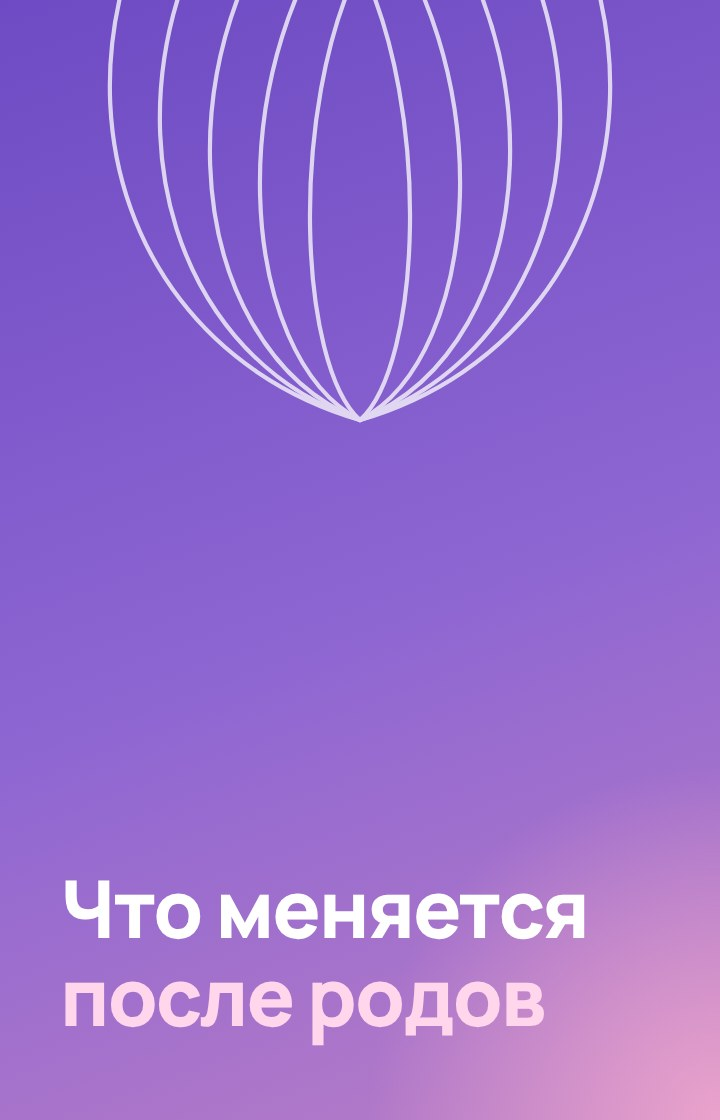
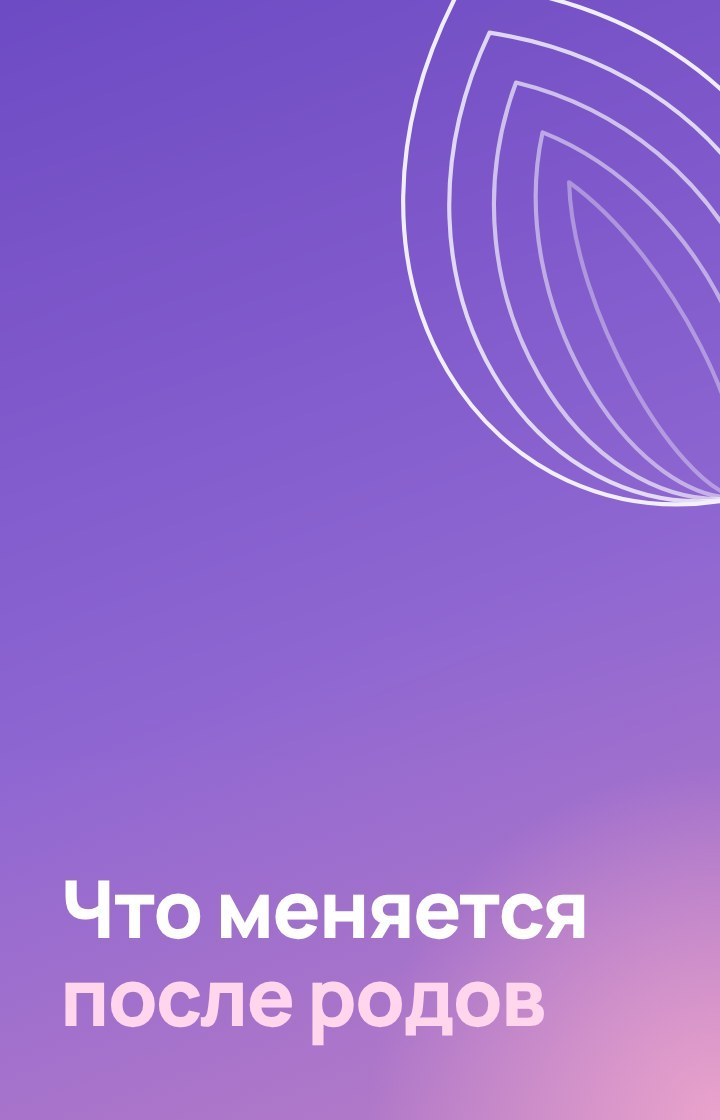
Тонус, видеоуроки: на обложке «Что меняется после родов» лепесток сдвинут вправо вверх и наклонён (не по центру над play); карточки «скоро» и все обложки с тонкой рамкой – видна полная высота
Claude-Session: https://claude.ai/code/session_01BQF8mmCayB7r6gCvi3am4g

diff --git a/app/index.html b/app/index.html
@@ -557,7 +557,7 @@ nav{align-items:center}nav a{display:inline-flex;align-items:center;justify-cont
 .vc b{position:relative;font-size:10.5px;font-weight:700;line-height:1.25;padding:20px 8px 8px;width:100%;background:linear-gradient(transparent,#1d1629d9)}
 .vc .vp{position:absolute;left:50%;top:50%;transform:translate(-50%,-50%);width:36px;height:36px;display:flex;filter:drop-shadow(0 4px 8px #1d162980)}.vc.later .vp{top:40%}
 .vc .vp svg{width:100%;height:100%}
-.vc.later{cursor:default;background:linear-gradient(160deg,#4A3A6B,#33284A)}
+.vc{box-shadow:inset 0 0 0 1.5px #ffffff1f}.vc.later{cursor:default;background:linear-gradient(165deg,#56447D,#3E2F5C)}.vc.later b{background:none;padding-top:8px}
 .vc.later .vp{opacity:.55}
 .vc.later small{position:absolute;top:8px;left:8px;font-size:9.5px;font-weight:700;color:var(--a-acc);background:#ffffff14;border-radius:99px;padding:3px 7px}
 .art{grid-template-columns:44px 1fr!important;padding:9px 10px!important}

diff --git a/index.html b/index.html
@@ -562,7 +562,7 @@ nav{align-items:center}nav a{display:inline-flex;align-items:center;justify-cont
 .vc b{position:relative;font-size:10.5px;font-weight:700;line-height:1.25;padding:20px 8px 8px;width:100%;background:linear-gradient(transparent,#1d1629d9)}
 .vc .vp{position:absolute;left:50%;top:50%;transform:translate(-50%,-50%);width:36px;height:36px;display:flex;filter:drop-shadow(0 4px 8px #1d162980)}.vc.later .vp{top:40%}
 .vc .vp svg{width:100%;height:100%}
-.vc.later{cursor:default;background:linear-gradient(160deg,#4A3A6B,#33284A)}
+.vc{box-shadow:inset 0 0 0 1.5px #ffffff1f}.vc.later{cursor:default;background:linear-gradient(165deg,#56447D,#3E2F5C)}.vc.later b{background:none;padding-top:8px}
 .vc.later .vp{opacity:.55}
 .vc.later small{position:absolute;top:8px;left:8px;font-size:9.5px;font-weight:700;color:var(--a-acc);background:#ffffff14;border-radius:99px;padding:3px 7px}
 .art{grid-template-columns:44px 1fr!important;padding:9px 10px!important}
